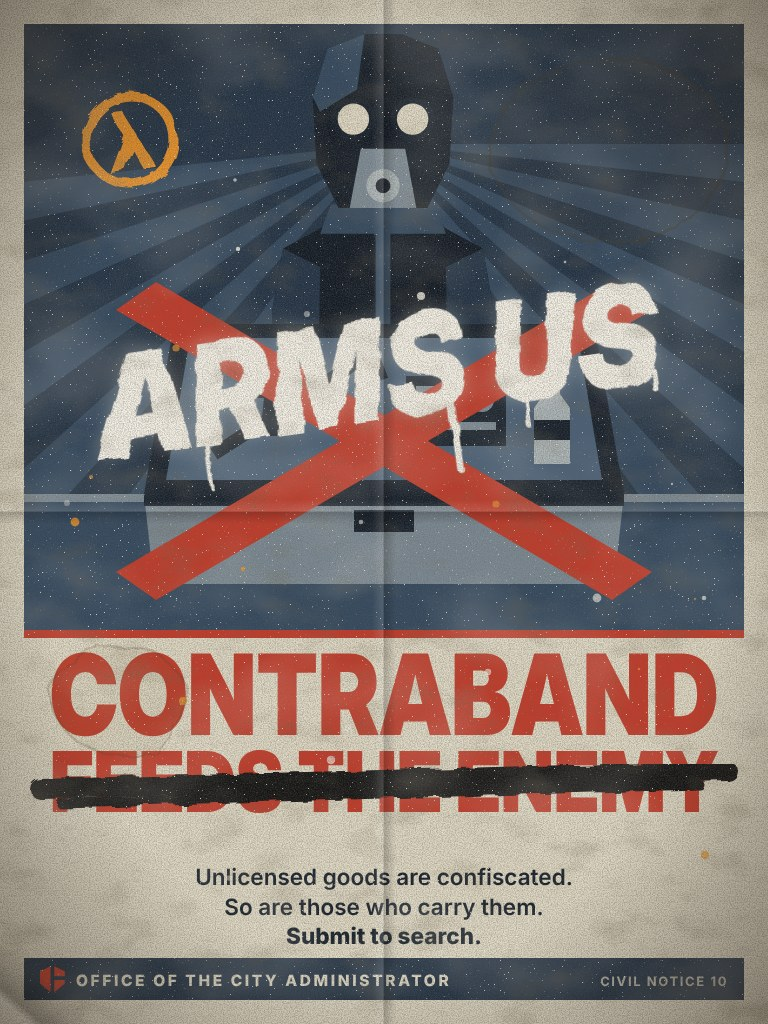
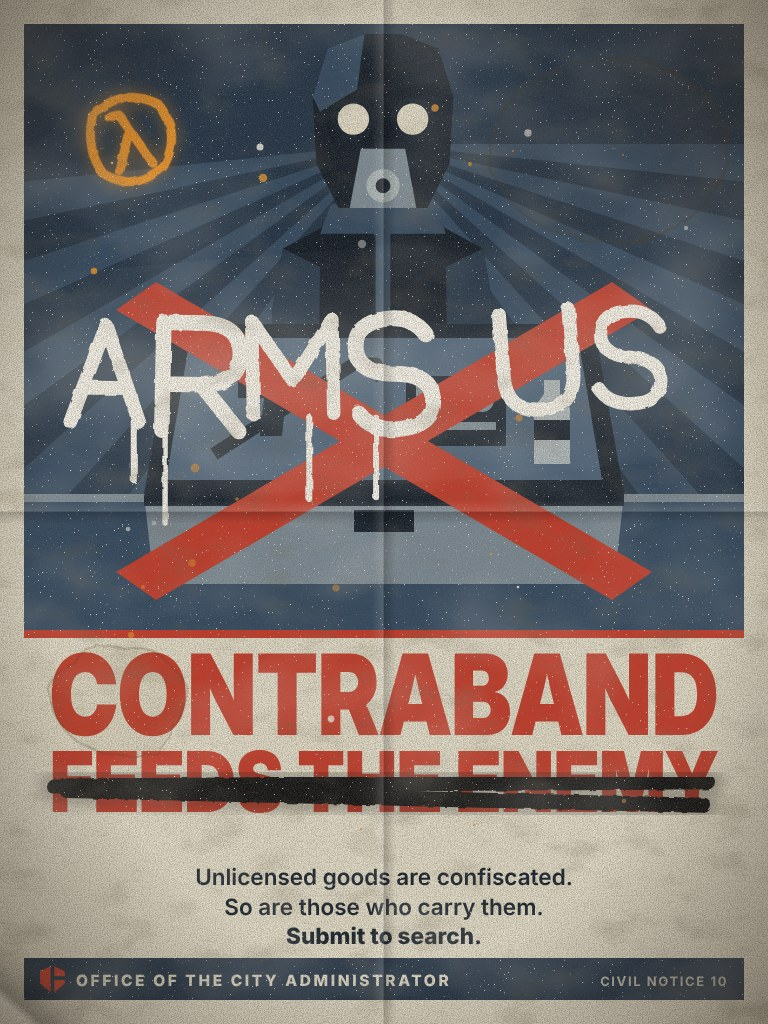
The Resistance's paint is sprayed by hand, not stencilled
The words on the painted-over posters and the paste-ups are now drawn as
spray-can handwriting: single round strokes, uneven letters, each line at
its own tilt, with overspray and runs. The lambda is sprayed the same way.

Claude-Session: https://claude.ai/code/session_01Y8SXQm2oyK1qYNFAgYMNJb

Changed region(s): [[0.0625, 0.25, 0.875, 0.5312], [0.0312, 0.7188, 0.9688, 0.8125], [0.0938, 0.0938, 0.25, 0.1875]]

diff --git a/_dev/posters/art3.js b/_dev/posters/art3.js
@@ -3,29 +3,79 @@ const { C, P, R, G, emblem } = require('./lib.js');
 
 const WHITE = '#f2eee4', BLACK = '#131313', ORANGE = '#e8912a';
 
-// the lambda in a ring, about 100 across, centre at 0,0
-function lambda(x, y, s, col, rot = 0) {
-  return G(`translate(${x},${y}) rotate(${rot}) scale(${s})`,
-    `<circle cx="0" cy="0" r="44" fill="none" stroke="${col}" stroke-width="9"/>` +
-    P('M-16,-30 L-4,-30 L22,30 L9,30 L1,10 L-11,30 L-25,30 L-6,-6Z', col));
-}
+// Everything the Resistance writes is sprayed by hand from a can (the owner, 10 November: "like someone
+// used a spray paint to write it by hand rather than stencil"): single round strokes, every letter a little
+// different, every line at its own tilt, with overspray and runs.
 let seed = 3;
 const rnd = () => (seed = (seed * 16807) % 2147483647) / 2147483647;
-// painted words: [text, x (centre), y (baseline), size, turn, colour]
-function scrawl(w) {
-  const [txt, x, y, size, rot, col] = w;
-  const width = txt.length * size * 0.58;
-  let drips = '';
-  for (let i = 0; i < 4; i++) {
-    const dx = x - width / 2 + rnd() * width, len = 18 + rnd() * size * 0.7, wd = 3 + rnd() * 4;
-    drips += `<rect x="${dx.toFixed(1)}" y="${(y - size * 0.1).toFixed(1)}" width="${wd.toFixed(1)}" height="${len.toFixed(1)}" rx="${(wd / 2).toFixed(1)}" fill="${col}"/>`;
-  }
-  const t = `<text x="${x}" y="${y}" text-anchor="middle" font-family="Inter Display" font-style="italic" font-weight="900" font-size="${size}" fill="${col}" textLength="${Math.min(width, 700).toFixed(0)}" lengthAdjust="spacingAndGlyphs">${txt}</text>`;
-  return `<g transform="rotate(${rot} ${x} ${y})"><g filter="url(#over)" opacity=".35">${t}</g><g filter="url(#brush)">${t}${drips}</g></g>`;
+
+// the lambda in a ring, sprayed in a few strokes, about 100 across, centre at 0,0
+function lambda(x, y, s, col, rot = 0) {
+  const d = 'M-30,-34 Q-46,-2 -34,26 Q-10,52 26,34 Q52,6 36,-28 Q8,-52 -26,-36 M-15,-27 L-5,-27 L17,28 M-1,-5 L-17,28';
+  const st = `fill="none" stroke="${col}" stroke-linecap="round" stroke-linejoin="round"`;
+  return G(`translate(${x},${y}) rotate(${rot + (rnd() * 16 - 8)}) scale(${s})`,
+    `<path d="${d}" ${st} stroke-width="16" opacity=".3" filter="url(#over)"/><path d="${d}" ${st} stroke-width="9" filter="url(#spray)"/>`);
 }
-// a slash of paint through a headline line
+
+// a hand alphabet: each letter a few strokes on a grid 14 high (the baseline at 14). [strokes, width]
+const HAND = {
+  A: ['M0,14 L5,0 L10,14 M2.2,9 L7.8,9', 10], B: ['M0,14 L0,0 L5,0 Q9,0 9,3.5 Q9,7 5,7 L0,7 M5,7 Q10,7 10,10.5 Q10,14 5,14 L0,14', 10],
+  C: ['M10,2.5 Q8,0 5.5,0 Q0,0 0,7 Q0,14 5.5,14 Q8,14 10,11.5', 10], D: ['M0,0 L0,14 L4,14 Q10,14 10,7 Q10,0 4,0 L0,0', 10],
+  E: ['M9,0 L0,0 L0,14 L9,14 M0,7 L7,7', 9], F: ['M9,0 L0,0 L0,14 M0,7 L7,7', 9],
+  G: ['M10,2.5 Q8,0 5.5,0 Q0,0 0,7 Q0,14 5.5,14 Q10,14 10,8 L5.5,8', 10], H: ['M0,0 L0,14 M10,0 L10,14 M0,7 L10,7', 10],
+  I: ['M1,0 L1,14', 2], J: ['M7,0 L7,10 Q7,14 3.5,14 Q0,14 0,10.5', 7], K: ['M0,0 L0,14 M9,0 L0,8 M3.5,5.5 L10,14', 10],
+  L: ['M0,0 L0,14 L8,14', 8], M: ['M0,14 L0,0 L6,9 L12,0 L12,14', 12], N: ['M0,14 L0,0 L10,14 L10,0', 10],
+  O: ['M5.5,0 Q0,0 0,7 Q0,14 5.5,14 Q11,14 11,7 Q11,0 5.5,0', 11], P: ['M0,14 L0,0 L5,0 Q10,0 10,4 Q10,8 5,8 L0,8', 10],
+  Q: ['M5.5,0 Q0,0 0,7 Q0,14 5.5,14 Q11,14 11,7 Q11,0 5.5,0 M7,10 L11,14.5', 11], R: ['M0,14 L0,0 L5,0 Q10,0 10,4 Q10,8 5,8 L0,8 M5,8 L10,14', 10],
+  S: ['M9.5,2.5 Q8,0 5,0 Q0.5,0 0.5,3.5 Q0.5,6.5 5,7 Q9.5,7.5 9.5,10.5 Q9.5,14 5,14 Q1.5,14 0,11.5', 10], T: ['M0,0 L10,0 M5,0 L5,14', 10],
+  U: ['M0,0 L0,9 Q0,14 5,14 Q10,14 10,9 L10,0', 10], V: ['M0,0 L5,14 L10,0', 10], W: ['M0,0 L3.5,14 L7,3 L10.5,14 L14,0', 14],
+  X: ['M0,0 L10,14 M10,0 L0,14', 10], Y: ['M0,0 L5,7 L10,0 M5,7 L5,14', 10], Z: ['M0,0 L10,0 L0,14 L10,14', 10],
+  "'": ['M1.2,0 L0.6,3.5', 2], '.': ['M1,13.4 L1.3,14', 2], ' ': ['', 5],
+};
+// sprayed words: [text, x (centre), y (baseline), size, turn (ignored: each line finds its own), colour]
+function scrawl(w) {
+  const [raw, x, y0, size, , col, o = {}] = w;
+  const tm = o.tm || 11, jit = o.jit === undefined ? 12 : o.jit, run = o.run || 0.75;
+  const txt = raw.toUpperCase();
+  let k = size * 0.727 / 14; // (size is a type size: its capitals are about 0.727 of it)
+  const gap = 2.6;
+  let width = 0;
+  for (const ch of txt) width += (HAND[ch] || HAND[' '])[1] + gap;
+  width -= gap;
+  if (width * k > 660) k = 660 / width;
+  const sw = Math.max(1.5, 2.3 - k * 0.04); // (the can's line: about the same on the wall whatever the letter size)
+  const tilt = rnd() * 2 * tm - tm * 1.18, cx = x + (rnd() * 50 - 25) * (jit / 12), y = y0 + (rnd() * 2 - 1) * jit;
+  const rise = (rnd() * 2 - 1) * 1.6; // (the line drifts up or down as the arm moves)
+  let letters = '', drips = '', px = -width / 2, n = 0;
+  const rad = tilt * Math.PI / 180;
+  for (const ch of txt) {
+    const [d, lw] = HAND[ch] || HAND[' '];
+    if (d) {
+      const t = (px + width / 2) / width;
+      const ly = -14 + rise * (t - 0.5) * 4 + (rnd() * 2 - 1) * 0.9, lr = rnd() * 12 - 6, ls = 0.9 + rnd() * 0.22;
+      letters += `<path transform="translate(${px.toFixed(2)},${ly.toFixed(2)}) rotate(${lr.toFixed(1)} ${lw / 2} 14) scale(${ls.toFixed(2)})" d="${d}"/>`;
+      if (rnd() < 0.42) {
+        // a run: straight down the wall from somewhere along the letter's foot
+        const ux = (px + rnd() * lw) * k, uy = (ly + 14) * k;
+        const gx = cx + ux * Math.cos(rad) - uy * Math.sin(rad), gy = y + ux * Math.sin(rad) + uy * Math.cos(rad);
+        const len = 14 + rnd() * size * run;
+        drips += `<path d="M${gx.toFixed(1)},${(gy - 4).toFixed(1)} L${gx.toFixed(1)},${(gy + len).toFixed(1)}" stroke="${col}" stroke-width="${(sw * k * (0.28 + rnd() * 0.2)).toFixed(1)}" stroke-linecap="round" fill="none"/>`;
+      }
+      n++;
+    }
+    px += lw + gap;
+  }
+  const st = `fill="none" stroke="${col}" stroke-linecap="round" stroke-linejoin="round"`;
+  const place = `translate(${cx.toFixed(1)},${y.toFixed(1)}) rotate(${tilt.toFixed(1)}) scale(${k.toFixed(3)})`;
+  return `<g transform="${place}" ${st} stroke-width="${(sw * 2.1).toFixed(2)}" opacity=".28" filter="url(#over)">${letters}</g>` +
+    `<g filter="url(#spray)"><g transform="${place}" ${st} stroke-width="${sw.toFixed(2)}">${letters}</g>${drips}</g>`;
+}
+// a slash of the can through a headline line
 function strike(y, col) {
-  return `<g filter="url(#brush)"><path d="M40,${y + 8} L728,${y - 10}" stroke="${col}" stroke-width="20" stroke-linecap="round"/><path d="M60,${y + 22} L700,${y + 4}" stroke="${col}" stroke-width="9" stroke-linecap="round"/></g>`;
+  const a = rnd() * 26 - 13, b = rnd() * 26 - 13;
+  const d = `M${40 + rnd() * 30},${y + a} L${700 + rnd() * 30},${y - a + 6} M${690 + rnd() * 30},${y + b + 14} L${60 + rnd() * 40},${y - b + 20}`;
+  const st = `fill="none" stroke="${col}" stroke-linecap="round" stroke-linejoin="round"`;
+  return `<path d="${d}" ${st} stroke-width="30" opacity=".28" filter="url(#over)"/><path d="${d}" ${st} stroke-width="15" filter="url(#spray)"/>`;
 }
 
 // id = { strike: [headline lines struck out], words: [...], lam: [x, y, size, turn], extra }
@@ -47,7 +97,7 @@ const DEFACE = {
   vortigaunt: { words: [['FREE', 384, 280, 150, -9, WHITE], ['THEM', 384, 430, 150, -9, ORANGE]], lam: [130, 130, 0.9, 8] },
   recruit: { words: [['TRAITORS', 384, 360, 132, -8, WHITE]], lam: [130, 150, 0.9, -8] },
   administrator: { words: [['LIAR', 384, 500, 210, -8, WHITE]], lam: [660, 130, 0.9, 8],
-    extra: `<g filter="url(#brush)" stroke="${BLACK}" stroke-width="16" stroke-linecap="round"><path d="M300,222 L372,278 M372,222 L300,278 M396,222 L468,278 M468,222 L396,278"/></g>` },
+    extra: `<g filter="url(#spray)" stroke="${BLACK}" stroke-width="15" stroke-linecap="round" fill="none"><path d="M296,218 L374,282 M378,226 L302,274 M394,224 L470,280 M466,216 L398,284"/></g>` },
 };
 
 function defaceLayer(p) {
@@ -62,15 +112,15 @@ function defaceLayer(p) {
   for (const i of d.strike || []) s += strike(mids[i], dark ? WHITE : BLACK);
   if (d.extra) s += d.extra;
   for (const w of d.words) s += scrawl(w);
-  s += `<g filter="url(#brush)">${lambda(d.lam[0], d.lam[1], d.lam[2], ORANGE, d.lam[3])}</g>`;
+  s += lambda(d.lam[0], d.lam[1], d.lam[2], ORANGE, d.lam[3]);
   // overspray and a few flecks
   for (let i = 0; i < 26; i++) s += `<circle cx="${(60 + rnd() * 650).toFixed(0)}" cy="${(80 + rnd() * 800).toFixed(0)}" r="${(1 + rnd() * 3.5).toFixed(1)}" fill="${rnd() > 0.5 ? WHITE : ORANGE}" opacity="${(0.4 + rnd() * 0.5).toFixed(2)}"/>`;
   return s;
 }
 
-// ---- the Resistance's own paste-ups: stencil and typewriter on scrap paper ----
+// ---- the Resistance's own paste-ups: brush and spray can on scrap paper, a typed line under ----
 const KRAFT = '#b79c70', NEWS = '#cfc7b1';
-const stencil = (txt, x, y, size, col, len) => `<text x="${x}" y="${y}" text-anchor="middle" font-family="Inter Display" font-weight="900" font-size="${size}" fill="${col}" ${len ? `textLength="${len}" lengthAdjust="spacingAndGlyphs"` : ''} filter="url(#brush)">${txt}</text>`;
+const stencil = (txt, x, y, size, col) => scrawl([txt, x, y, size, 0, col, { tm: 4.5, jit: 3, run: 0.28 }]);
 const typed = (txt, x, y, size = 30) => `<text x="${x}" y="${y}" text-anchor="middle" font-family="JetBrains Mono" font-weight="800" font-size="${size}" fill="${BLACK}">${txt}</text>`;
 const tape = (x, y, rot) => `<rect x="${x - 60}" y="${y - 18}" width="120" height="36" fill="#e9e2c8" opacity=".75" transform="rotate(${rot} ${x} ${y})"/>`;
 
@@ -81,8 +131,8 @@ const REBEL = {
     s += `<g filter="url(#brush)"><circle cx="384" cy="250" r="130" fill="none" stroke="${BLACK}" stroke-width="34"/><rect x="354" y="356" width="60" height="44" fill="${ORANGE}"/>`;
     for (let i = 0; i < 4; i++) s += `<ellipse cx="384" cy="${430 + i * 44}" rx="17" ry="27" fill="none" stroke="${BLACK}" stroke-width="12"/>`;
     s += R(304, 590, 160, 110, BLACK) + R(304, 622, 160, 34, KRAFT) + R(304, 590, 160, 12, ORANGE) + '</g>';
-    s += stencil('THE RATION', 384, 800, 104, BLACK, 640) + stencil('IS THE LEASH', 384, 900, 104, WHITE, 640);
-    s += typed('They feed you so you will not bite.', 384, 958, 26);
+    s += stencil('THE RATION', 384, 806, 104, BLACK) + stencil('IS THE LEASH', 384, 912, 104, WHITE);
+    s += typed('They feed you so you will not bite.', 384, 986, 26);
     return s; }, lam: [640, 110, 0.8, 10] },
   rebel_water: { paper: NEWS, art: () => {
     let s = `<g filter="url(#brush)">`;
@@ -90,25 +140,25 @@ const REBEL = {
     s += P('M345,300 C320,350 322,372 345,378 C368,372 370,350 345,300Z', ORANGE) + P('M345,400 C326,440 328,456 345,460 C362,456 364,440 345,400Z', ORANGE);
     s += P('M270,490 L420,490 L404,640 L286,640Z', BLACK) + P('M290,512 L400,512 L396,548 L294,548Z', NEWS);
     s += `<path d="M190,420 L520,700 M520,420 L190,700" stroke="${ORANGE}" stroke-width="30" stroke-linecap="round"/></g>`;
-    s += stencil("DON'T DRINK", 384, 808, 104, BLACK, 640) + stencil('THE WATER', 384, 904, 110, BLACK, 640);
-    s += typed('They put something in it', 384, 944, 26) + typed('to make you forget.', 384, 976, 26);
+    s += stencil("DON'T DRINK", 384, 800, 100, BLACK) + stencil('THE WATER', 384, 902, 104, BLACK);
+    s += typed('They put something in it', 384, 962, 24) + typed('to make you forget.', 384, 992, 24);
     return s; }, lam: [640, 150, 0.8, -8] },
   rebel_home: { paper: KRAFT, art: () => {
     let s = `<g filter="url(#brush)">` + P('M190,110 L578,110 L578,690 L190,690Z', BLACK);
     for (let r = 0; r < 5; r++) for (let c = 0; c < 4; c++) s += R(226 + c * 86, 150 + r * 104, 58, 70, (r * 4 + c) % 5 === 1 ? ORANGE : KRAFT);
     for (let i = 0; i < 7; i++) s += R(150 + i * 78, 70, 22, 660, BLACK);
     s += R(120, 70, 528, 26, BLACK) + R(120, 706, 528, 26, BLACK) + '</g>';
-    s += stencil('THIS IS NOT', 384, 826, 96, BLACK, 640) + stencil('YOUR HOME', 384, 916, 104, WHITE, 640);
-    s += typed('Remember who you were.', 384, 966, 28);
+    s += stencil('THIS IS NOT', 384, 822, 92, BLACK) + stencil('YOUR HOME', 384, 922, 100, WHITE);
+    s += typed('Remember who you were.', 384, 988, 28);
     return s; }, lam: [660, 800, 0.0, 0] },
   rebel_watch: { paper: NEWS, art: () => {
     let s = `<g filter="url(#brush)">`;
     s += P('M70,380 C200,180 568,180 698,380 C568,580 200,580 70,380Z', BLACK) + P('M150,380 C240,250 528,250 618,380 C528,510 240,510 150,380Z', NEWS);
     s += `<circle cx="384" cy="380" r="118" fill="${BLACK}"/>` + '</g>';
-    s += `<g filter="url(#brush)">${lambda(384, 380, 1.9, ORANGE, 0)}</g>`;
+    s += lambda(384, 380, 1.9, ORANGE, 0);
     for (let i = 0; i < 7; i++) s += `<path d="M${150 + i * 78},${200 - Math.abs(3 - i) * -14} L${130 + i * 84},${130 - Math.abs(3 - i) * -18}" stroke="${BLACK}" stroke-width="14" stroke-linecap="round" filter="url(#brush)"/>`;
-    s += stencil('SHE WATCHES.', 384, 740, 100, BLACK, 640) + stencil('WE SEE.', 384, 868, 150, ORANGE, 640);
-    s += typed('The Resistance is closer', 384, 928, 28) + typed('than you think.', 384, 962, 28);
+    s += stencil('SHE WATCHES.', 384, 724, 100, BLACK) + stencil('WE SEE.', 384, 852, 140, ORANGE);
+    s += typed('The Resistance is closer', 384, 942, 28) + typed('than you think.', 384, 976, 28);
     return s; }, lam: [0, 0, 0, 0] },
 };
 
@@ -118,13 +168,14 @@ function rebelPage(id) {
   // uneven, hand-cut paper: pale slivers at the edges
   s += P('M0,0 L768,0 L768,14 L620,8 L400,16 L180,6 L0,12Z', '#00000022') + P('M0,1024 L768,1024 L768,1008 L560,1016 L300,1006 L0,1014Z', '#00000022');
   s += r.art();
-  if (r.lam[2] > 0) s += `<g filter="url(#brush)">${lambda(r.lam[0], r.lam[1], r.lam[2], ORANGE, r.lam[3])}</g>`;
+  if (r.lam[2] > 0) s += lambda(r.lam[0], r.lam[1], r.lam[2], ORANGE, r.lam[3]);
   s += tape(110, 16, -6) + tape(660, 14, 5) + tape(384, 1010, 2);
   return s;
 }
 
 const FILTERS = `
   <filter id="brush" x="-5%" y="-20%" width="110%" height="150%"><feTurbulence type="fractalNoise" baseFrequency="0.035" numOctaves="3" seed="8"/><feDisplacementMap in="SourceGraphic" scale="9"/></filter>
-  <filter id="over" x="-10%" y="-30%" width="120%" height="170%"><feGaussianBlur stdDeviation="9"/></filter>`;
+  <filter id="over" x="-20%" y="-40%" width="140%" height="180%"><feGaussianBlur stdDeviation="7"/></filter>
+  <filter id="spray" x="-10%" y="-20%" width="120%" height="150%"><feTurbulence type="fractalNoise" baseFrequency="0.09" numOctaves="2" seed="5"/><feDisplacementMap in="SourceGraphic" scale="3.5" result="d"/><feGaussianBlur in="d" stdDeviation="0.7"/></filter>`;
 
 module.exports = { DEFACE, defaceLayer, REBEL, rebelPage, FILTERS };

diff --git a/docs/features/talking-and-tips.md b/docs/features/talking-and-tips.md
@@ -46,7 +46,7 @@ So nobody has to read all this first, the game explains itself as it happens. Th
 - **Old hands who help newcomers:** someone new to the city (registered this session) gets a room, collects a first ration or finishes a first shift with someone nearby they know by name: that person earns `lc_mentor_xp` (25) XP, once per newcomer for each.
 - **Civil notice posters** (editor: "Fixture: Civil notice poster", on a wall): their words fit whatever official thing is nearest (beside the dispenser, that labor earns rations; at the Commissary, that credits come from work; at the desks, that arrivals must register; by a sink or a water machine, that untreated water carries parasites; by the law board, to know the law; anywhere else, curfew). E reads it closely, which is learning it. **Your own artwork:** `garrysmod/materials/livingcity/posters/<kind>.png` (or `.jpg`; kinds `dispenser`, `commissary`, `intake`, `water`, `law`, `curfew`), 3:4 portrait, 768 x 1024 is plenty: the poster shows it instead of the drawn notice, and it's sent to players when the map starts. The brief for each picture is `POSTER_BRIEF.md` (the owner, 10 November: "describe them so I can have a stronger model make them").
 - **The poster roll** (`weapon_lc_posters`, in the Director of Propaganda's loadout; anyone holding one can use it): left click hangs the chosen poster on the wall in front of you (within reach, on a wall, not over another poster; at most 24 hand-hung posters, `LC.PosterHangMax`), right click takes any poster down (a hand-hung one is removed; one the editor placed is only hidden, so the saved layout is untouched, and it is back when the map next starts), reload opens the roll to choose among all seventeen. Eleven posters are hung by hand only and are never picked by what is nearby: work, loyalty, informants, contraband, radio, illness, infestation, housing, vortigaunt, recruit, administrator. A hand-hung poster keeps the poster it was hung as, teaches no tip card, and stays up until the map changes (it is not saved). Pictures for all seventeen are in `materials/livingcity/posters/` (drawn by `_dev/posters/gen.js`). (`LC.HangPoster`, `LC.TakeDownPoster`, `LC.HungPosters`.)
-- **The Resistance answers** (the owner, 10 November): a **spray can** used while looking at a poster paints over it instead of spraying the lambda on the wall (2.5 seconds, one can; seen by a unit or scanner it is Vandalism, unseen a Resistance member earns 3 XP, as for a tag). A painted poster shows its `<kind>_x` picture (all seventeen are drawn: the city's poster with words struck out and painted over, and a lambda) and E reads what was painted. It stays that way until someone with a roll left clicks on it (a fresh sheet goes over it) or takes it down. **Four paste-ups of their own** (`rebel_watch`, `rebel_leash`, `rebel_water`, `rebel_home`: stencil and typewriter on scrap paper) are on the roll only in a Resistance member's hands, so they go up when the Resistance gets hold of a roll; nobody paints over those. (`LC.DefacePoster`, `LC.PosterAt`, hook `LivingCityPosterDefaced`.)
+- **The Resistance answers** (the owner, 10 November): a **spray can** used while looking at a poster paints over it instead of spraying the lambda on the wall (2.5 seconds, one can; seen by a unit or scanner it is Vandalism, unseen a Resistance member earns 3 XP, as for a tag). A painted poster shows its `<kind>_x` picture (all seventeen are drawn: the city's poster with words struck out and painted over, and a lambda) and E reads what was painted. It stays that way until someone with a roll left clicks on it (a fresh sheet goes over it) or takes it down. **Four paste-ups of their own** (`rebel_watch`, `rebel_leash`, `rebel_water`, `rebel_home`: sprayed and painted by hand on scrap paper, with a typed line under) are on the roll only in a Resistance member's hands, so they go up when the Resistance gets hold of a roll; nobody paints over those. (`LC.DefacePoster`, `LC.PosterAt`, hook `LivingCityPosterDefaced`.)
 - The PA explains itself only the first few times (`city-events.md`).
 
 **Changes from the 7 November playtest.** The cards at the top of the screen come one at a time, with a short gap and a "+N more" count (a warning goes first), taking turns with the tips on the right. A new character no longer gets the last one's wedding ring (rings still turn up in bins, the canal and on the dead).

diff --git a/POSTER_BRIEF.md b/POSTER_BRIEF.md
@@ -87,4 +87,4 @@ The Director of Propaganda hangs these with the poster roll (they never appear b
 
 ## The Resistance's answer
 
-Each of the seventeen has a painted-over version, `<kind>_x` (a spray can on the poster shows it): words struck out or daubed across in white and orange paint, with a lambda. And four paste-ups of their own, rough stencil and typewriter on scrap paper: `rebel_watch` (SHE WATCHES. WE SEE.), `rebel_leash` (THE RATION IS THE LEASH), `rebel_water` (DON'T DRINK THE WATER), `rebel_home` (THIS IS NOT YOUR HOME). All drawn by `_dev/posters/art3.js`.
+Each of the seventeen has a painted-over version, `<kind>_x` (a spray can on the poster shows it): words struck out or sprayed across by hand in white and orange paint (every line at its own tilt, uneven letters, runs), with a lambda. And four paste-ups of their own, rough sprayed and painted by hand on scrap paper, with a typed line under: `rebel_watch` (SHE WATCHES. WE SEE.), `rebel_leash` (THE RATION IS THE LEASH), `rebel_water` (DON'T DRINK THE WATER), `rebel_home` (THIS IS NOT YOUR HOME). All drawn by `_dev/posters/art3.js`.
